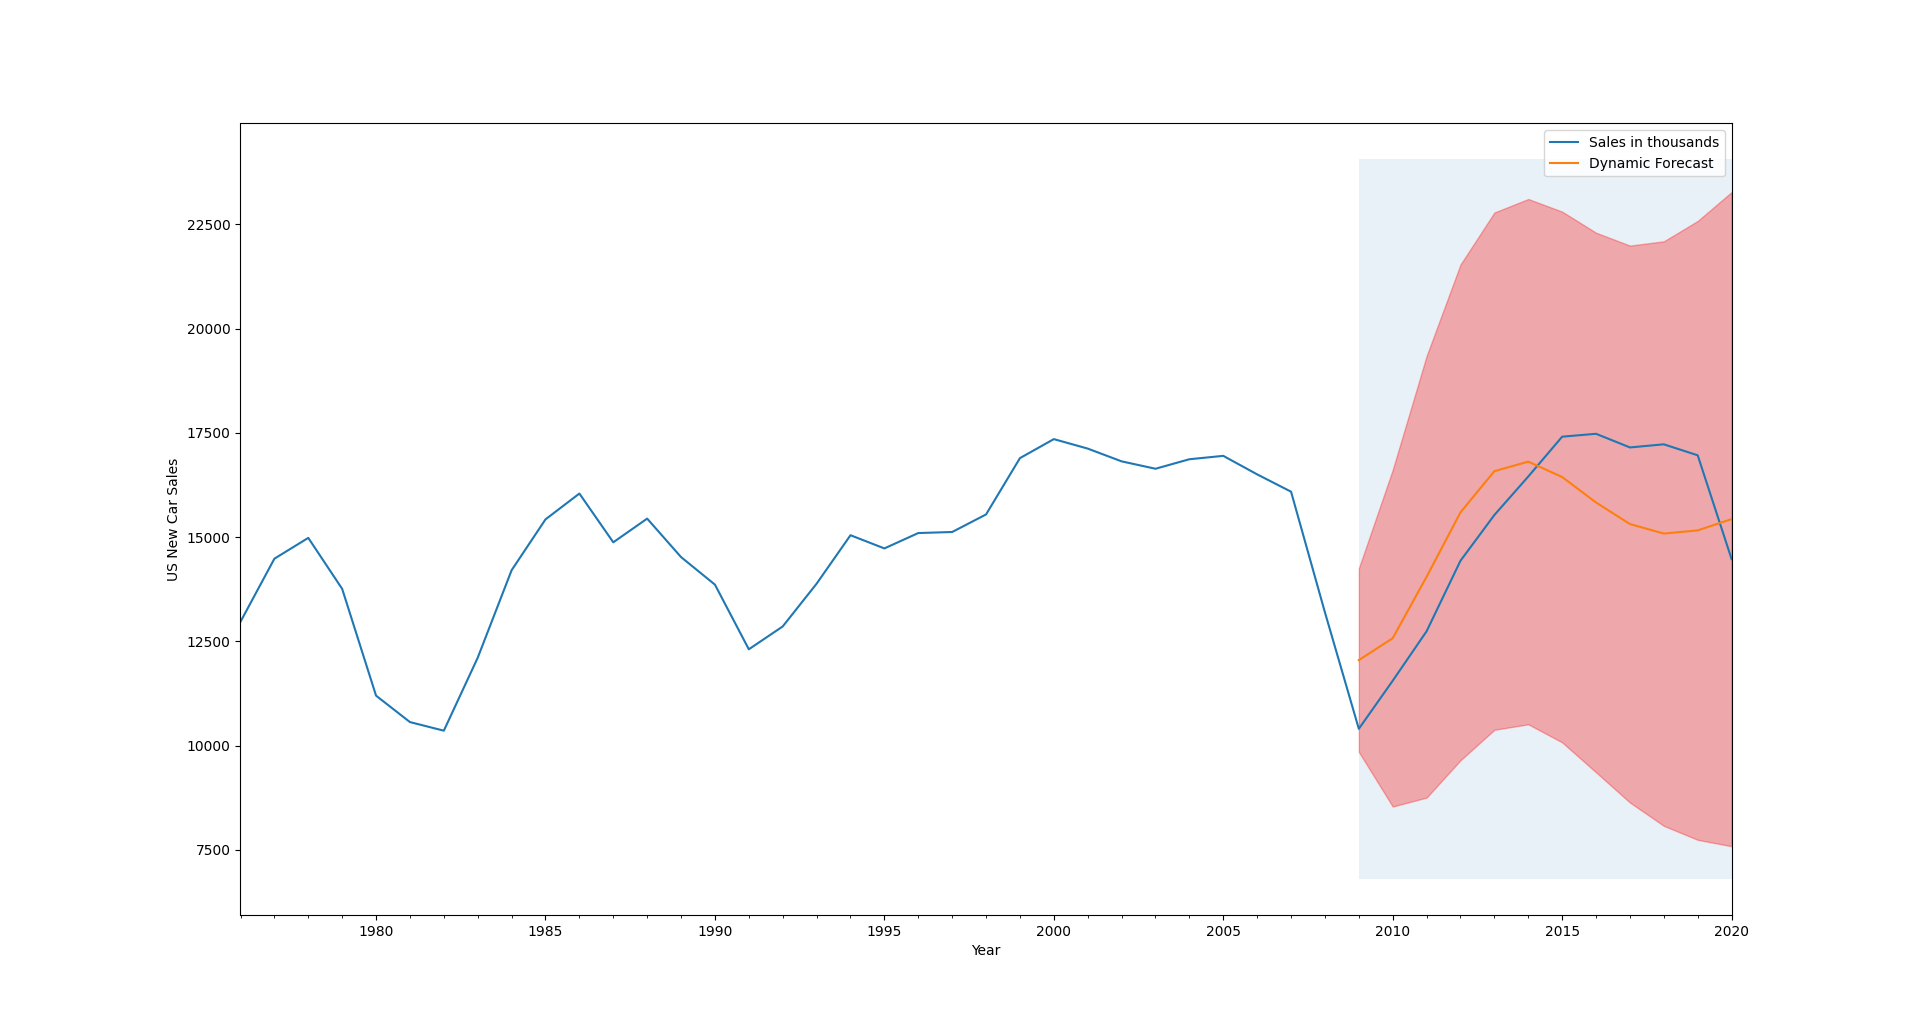
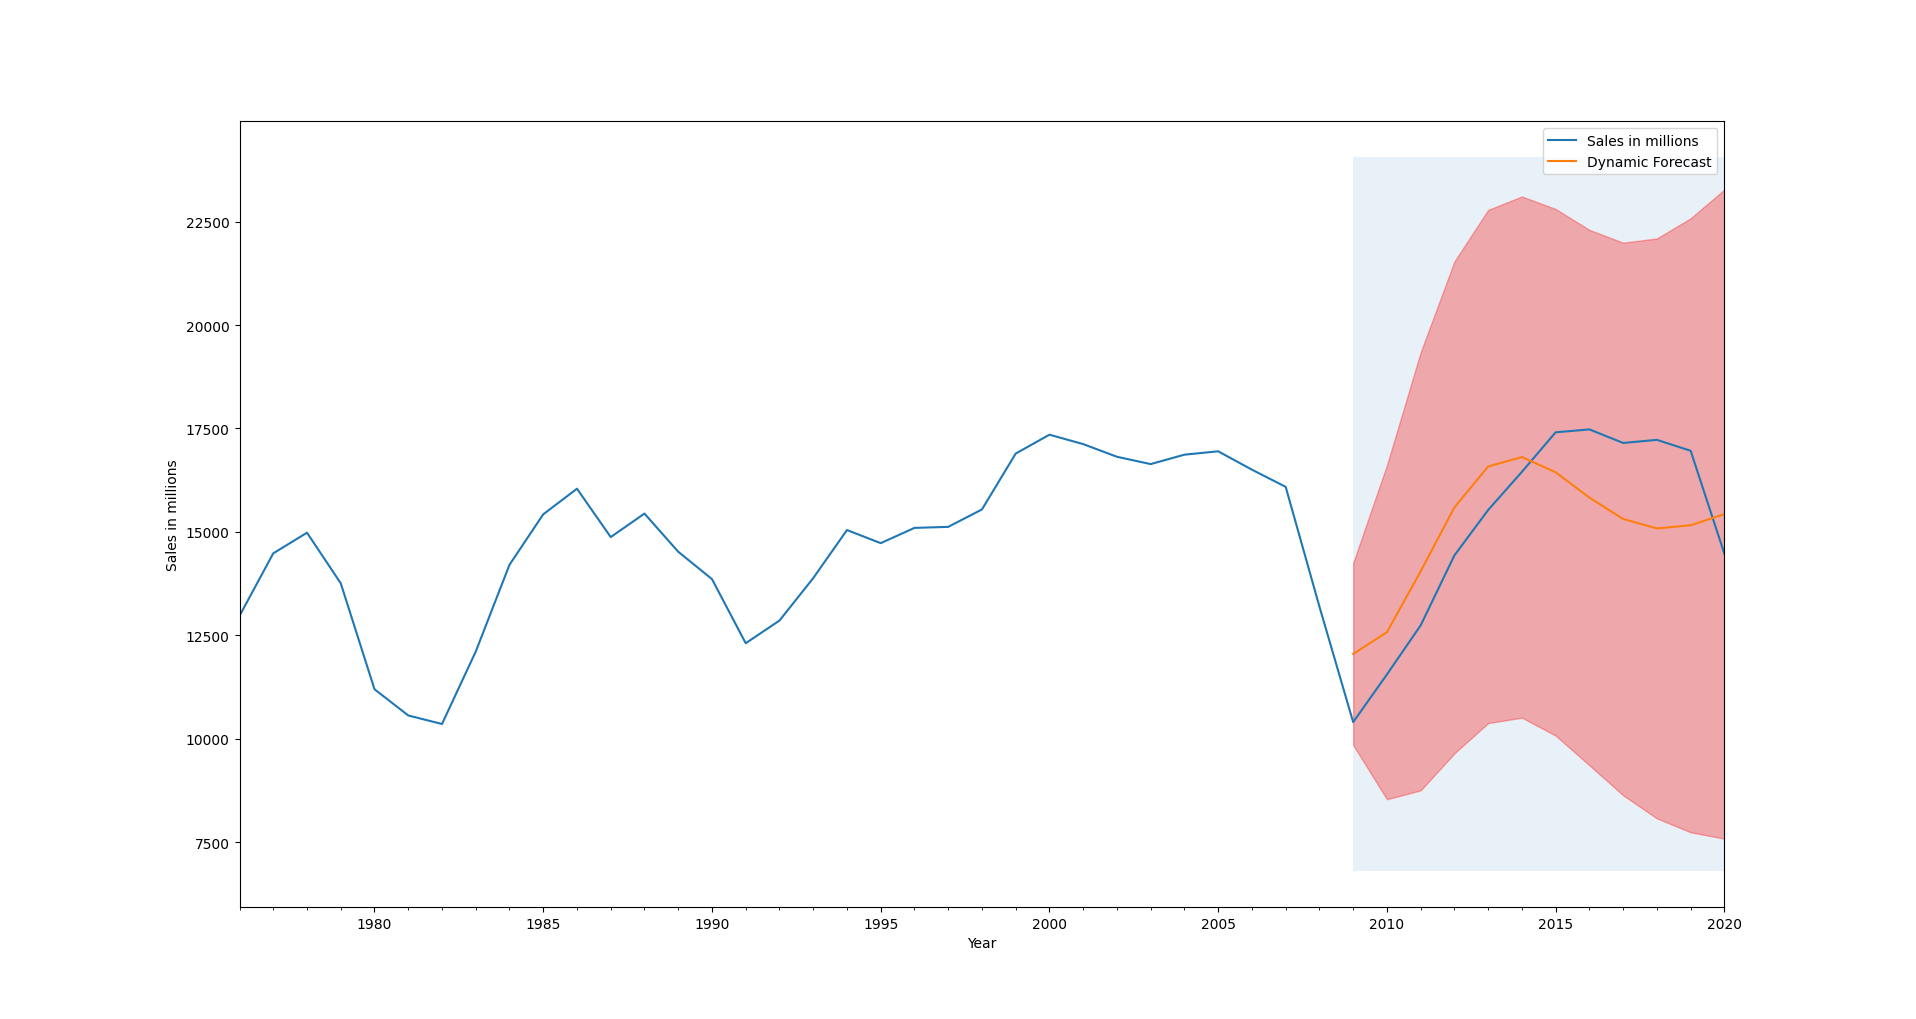
final adjustments

diff --git a/registered_forecast.py b/registered_forecast.py
@@ -1,5 +1,5 @@
 # Code based on a modified version of https://www.kaggle.com/vijaikm/co2-emission-forecast-with-python-seasonal-arima
-# Emission data taken from https://www.statista.com/statistics/199983/us-vehicle-sales-since-1951/
+# Trends data taken from https://www.statista.com/statistics/183505/number-of-vehicles-in-the-united-states-since-1990/
 
 import csv
 import warnings
@@ -15,7 +15,7 @@ from matplotlib import pyplot as plt
 
 warnings.filterwarnings("ignore") # specify to ignore warning messages
 
-path = "Datasets/USCarSales.csv"
+path = "Datasets/USRegistered.csv"
 
 dateparse = lambda x: pd.to_datetime(x, format='%Y', errors = 'coerce')
 mte = pd.read_csv(path, parse_dates=['Year'], date_parser=dateparse) 
@@ -76,19 +76,19 @@ wf['aic']=c
 print(wf[wf['aic']==wf['aic'].min()])
 '''
 mod = sm.tsa.arima.ARIMA(mte, 
-                                order=(2,2,2),  
+                                order=(0,2,2),  
                                 enforce_stationarity=False,
                                 enforce_invertibility=False)
 results = mod.fit()
 print(results.summary())
 
-results.plot_diagnostics(figsize=(20, 15))
+results.plot_diagnostics(lags = 5, figsize=(20, 15))
 
-pred = results.get_prediction(start = 33, end = 44, dynamic=False)
+pred = results.get_prediction(start = 6, end = 10, dynamic=False)
 pred_ci = pred.conf_int()
 print(pred_ci.head())
 
-ax = mte['1976':].plot(label='observed', figsize=(20, 15))
+ax = mte['2012':].plot(label='observed', figsize=(20, 15))
 pred.predicted_mean.plot(ax=ax, label='One-step ahead forecast', alpha=.7)
 
 ax.fill_between(pred_ci.index,
@@ -96,22 +96,22 @@ ax.fill_between(pred_ci.index,
                 pred_ci.iloc[:, 1], color='r', alpha=.5)
 
 ax.set_xlabel('Year')
-ax.set_ylabel('Sales in millions')
+ax.set_ylabel('Registered Cars in Millions')
 plt.legend()
 
 mte_forecast = pred.predicted_mean
-mte_truth = mte['2009':]
+mte_truth = mte['2016':]
 
 # Compute the mean square error
-mse = ((mte_forecast - mte_truth['Sales in millions']) ** 2).mean()
+mse = ((mte_forecast - mte_truth['Cars']) ** 2).mean()
 print('The Mean Squared Error (MSE) of the forecast is {}'.format(round(mse, 2)))
 print('The Root Mean Square Error (RMSE) of the forcast: {:.4f}'
-      .format(np.sqrt(sum((mte_forecast-mte_truth['Sales in millions'])**2)/len(mte_forecast))))
-
-pred_dynamic = results.get_prediction(start=pd.to_datetime('2009'), dynamic=True, full_results=True)
+      .format(np.sqrt(sum((mte_forecast-mte_truth['Cars'])**2)/len(mte_forecast))))
+      
+pred_dynamic = results.get_prediction(start=pd.to_datetime('2015'), dynamic=True, full_results=True)
 pred_dynamic_ci = pred_dynamic.conf_int()
 
-ax = mte['1976':].plot(label='observed', figsize=(20, 15))
+ax = mte['2012':].plot(label='observed', figsize=(20, 15))
 pred_dynamic.predicted_mean.plot(label='Dynamic Forecast', ax=ax)
 
 ax.fill_between(pred_dynamic_ci.index,
@@ -121,27 +121,27 @@ ax.fill_between(pred_dynamic_ci.index,
                 alpha=.3)
 
 ax.fill_betweenx(ax.get_ylim(), 
-                 pd.to_datetime('2009'), 
+                 pd.to_datetime('2015'), 
                  mte.index[-1],
                  alpha=.1, zorder=-1)
 
 ax.set_xlabel('Year')
-ax.set_ylabel('Sales in millions')
+ax.set_ylabel('Registered Cars in Millions')
 
 plt.legend()
 
 # Extract the predicted and true values of our time series
 mte_forecast = pred_dynamic.predicted_mean
-mte_orginal = mte['2009':]
+mte_orginal = mte['2016':]
 
 # Compute the mean square error
-mse = ((mte_forecast - mte_orginal['Sales in millions']) ** 2).mean()
+mse = ((mte_forecast - mte_orginal['Cars']) ** 2).mean()
 print('The Mean Squared Error (MSE) of the forecast is {}'.format(round(mse, 2)))
 print('The Root Mean Square Error (RMSE) of the forcast: {:.4f}'
-      .format(np.sqrt(sum((mte_forecast-mte_orginal['Sales in millions'])**2)/len(mte_forecast))))
+      .format(np.sqrt(sum((mte_forecast-mte_orginal['Cars'])**2)/len(mte_forecast))))
       
 # Get forecast of 10 years or 120 months steps ahead in future
-forecast = results.get_forecast(steps=10)
+forecast = results.get_forecast(steps=11)
 # Get confidence intervals of forecasts
 forecast_ci = forecast.conf_int()
 print(forecast_ci.head())
@@ -152,7 +152,9 @@ ax.fill_between(forecast_ci.index,
                 forecast_ci.iloc[:, 0],
                 forecast_ci.iloc[:, 1], color='g', alpha=.4)
 ax.set_xlabel('Year')
-ax.set_ylabel('Sales in millions')
+ax.set_ylabel('Registered EVs in Thousands')
+
+print(forecast.predicted_mean[10])
 
 plt.legend()
 plt.show()

diff --git a/solution_draft_2.py b/solution_draft_2.py
@@ -111,7 +111,7 @@ print(forecast_ci.head())
 ax = mte.plot(label='observed', figsize=(20, 15))
 forecast.predicted_mean.plot(ax=ax, label='Forecast')
 ax.set_xlabel('Year')
-ax.set_ylabel('CO2 Emissions in million tonnes')
+ax.set_ylabel('Car Sales in Thousands')
 
 actuals_list = actuals.predicted_mean
 combined_s = list(expected_s1).copy() 
@@ -130,8 +130,8 @@ plt.plot(years, list(forecast.predicted_mean) - ((np.cumsum(expected) * 4600) / 
 plt.plot(years, list(forecast.predicted_mean) - ((np.cumsum(expected_exp) * 4600) / 1000000), label='Forecast minus Expected Log')
 plt.plot(years, list(forecast.predicted_mean) - ((np.cumsum(combined_s) * 4600) / 1000000), label='Forecast minus Expected S')
 
-x = np.arange(2011, 2031)
-fig1, ax1 = plt.subplots()
+x = [2011, 2012, 2013, 2014, 2015, 2016, 2017, 2018, 2019, 2020, 2021, 2022, 2023, 2024, 2025, 2026, 2027, 2028, 2029, 2030]
+fig1, ax1 = plt.subplots(figsize=(20, 15))
 y = [sales for sublist in mte_2_list for sales in sublist]
 y0 = y.copy()
 y0.extend(actuals_list)
@@ -147,7 +147,7 @@ ax1.plot(x, np.cumsum(y1), label = 'Expected with linear growth')
 ax1.plot(x, np.cumsum(y2), label = 'Expected with exponential growth')
 ax1.plot(x, np.cumsum(y3), label = 'Expected with s-curve growth')
 ax1.set_xlabel('Year')
-ax1.set_ylabel('Registered EVs in thousans')
+ax1.set_ylabel('Registered EVs in thousands')
 
 plt.legend()
 plt.show()
@@ -166,27 +166,27 @@ plt.show()
 #expected s - 41,360,560
 
 #cars registered 35%
-#assumed no of cars by 2030, 350 million
-#35% of 350m = 122,500,000
+#estimated no of cars by 2030: 309,309,894
+#35% of est = 108,258,462.9
 #15% of 4246.669349925766 = 637.0004024888649
 
 #actuals
-#market share = 4,293,382/122,500,000 = 3.5048016326530612244897959183673%
-#theoretical decrease = 22.325600506436308261973877551018
+#market share = 4,293,382/108,258,462.9 = 3.965862700236066255841879314176%
+#theoretical decrease = 25.262561362659507722345464781211
 #actual decrease = 14.5423435115715
 
 #expected linear
-#market share = 39,320,915/122,500,000 = 32.098706122448979591836734693878%
-#theoretical decrease = 204.46888719371791983170204081633
+#market share = 39,320,915/108,258,462.9 = 36.321331327529868336972295955257%
+#theoretical decrease = 231.36702674567943804958180317929
 #actual decrease = 175.668993415766
 
 #expected exp
-#market share = 24,340,702/122,500,000 = 19.869960816326530612244897959184%
-#theoretical decrease = 126.57173037437974570742693877551
+#market share = 24,340,702/108,258,462.9 = 22.483879179481680965193160894214%
+#theoretical decrease = 143.22240086840840273153185514146
 #actual decrease = 106.760016125766
 
 #expected s
-#market share = 41,360,560/122,500,000 = 33.763722448979591836734693877551%
-#theoretical decrease = 215.07504789522323288444081632653
+#market share = 41,360,560/108,258,462.9 = 38.205382648195719024937310466838%
+#theoretical decrease = 243.36844124141768161336050153729
 #actual decrease = 185.051362675766
 
